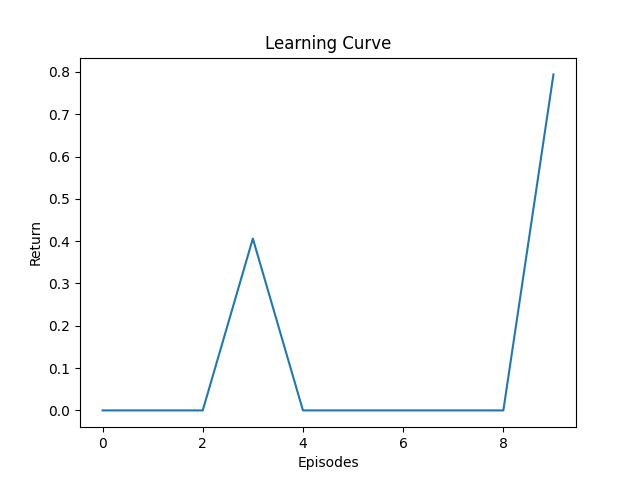
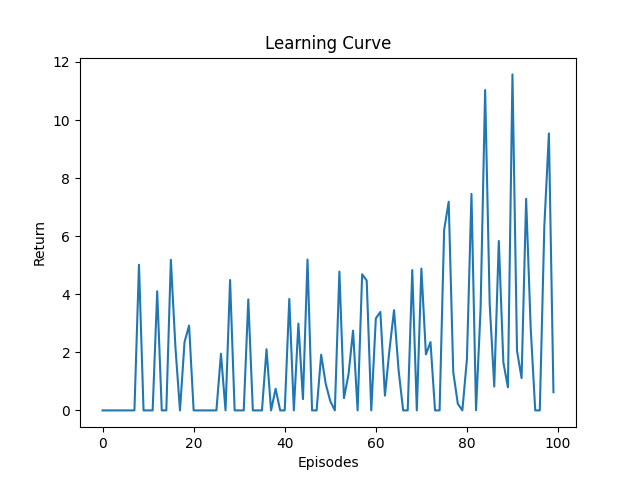
DQN

diff --git a/train_discreteaction_pendulum.py b/train_discreteaction_pendulum.py
@@ -7,6 +7,7 @@ import torch.nn as nn
 import torch.optim as optim
 from collections import deque
 
+
 #Neural Network for approximating Q-Function
 class NeuralNet(nn.Module):
     def __init__(self, input_size, hidden_size, output_size, learning_rate):
@@ -30,7 +31,7 @@ class NeuralNet(nn.Module):
 
 #Deep Q-Network Agent
 class DQN_agent:
-    def __init__(self, env, learning_rate, epsilon, num_episodes, gamma=0.95, replay_buffer = 2000):
+    def __init__(self, env, learning_rate, epsilon, num_episodes, target_replace_freq, batch_size, gamma=0.95, replay_buffer = 2000):
         self.env = env
         self.learning_rate = learning_rate
         self.evaluate_net = self.qnetwork()
@@ -44,8 +45,10 @@ class DQN_agent:
         self.loss = torch.nn.MSELoss()
         self.optimizer = optim.RMSprop(self.evaluate_net.parameters(), lr=learning_rate, alpha=0.95, eps=0.01, momentum=0.95)
         self.replay_buffer = replay_buffer
+        self.init_memory_size = 500
         self.learn_step_counter = 0
-        self.target_replace_freq = 10000
+        self.target_replace_freq = target_replace_freq
+        self.batch_size = batch_size
         self.memory = deque(maxlen = self.replay_buffer) #each element of the memory is [s,a,r,s',done]
         self.log = {
         't': [0],
@@ -63,18 +66,21 @@ class DQN_agent:
     def store_experience(self, s, a, r, s_new, done):
         self.memory.append((s,a,r,s_new,done))
 
-    def epsilon_greedy(self, s):
-        if np.random.rand() <= self.epsilon:
+    def epsilon_greedy(self, s, epsilon):
+        if np.random.rand() <= epsilon:
             return random.randrange(self.env.num_actions)
         q_values = self.evaluate_net.forward(s)
         greedy_action = torch.argmax(q_values).item()
         return greedy_action
     
-    def experience_replay(self, batch_size):
+    def experience_replay(self):
         if self.learn_step_counter % self.target_replace_freq == 0:
+            print("Updating Target Network")
             self.target_net.load_state_dict(self.evaluate_net.state_dict())
+        self.learn_step_counter += 1
 
-        experience_sample = random.sample(self.memory, batch_size)
+        experience_sample = random.sample(self.memory, self.batch_size)
+        # print(experience_sample[0])
         for s,a,r,s_new,done in experience_sample:
             eval_output = self.evaluate_net(s)[a]
             # target_output = r
@@ -88,6 +94,9 @@ class DQN_agent:
 
             self.optimizer.zero_grad()
             loss.backward()
+
+            for para in self.evaluate_net.parameters():
+                para.grad.data.clamp_(-1,1)
             self.optimizer.step()
 
         if self.epsilon > self.epsilon_min:
@@ -96,14 +105,14 @@ class DQN_agent:
         
         return self.evaluate_net, self.target_net
     
-    def load(self, name):
-        self.qnetwork().load_state_dict(name)
+    # def load(self, name):
+    #     self.qnetwork().load_state_dict(name)
 
-    def save(self, name):
-        self.qnetwork()._save_to_state_dict(name)
+    # def save(self, name):
+    #     self.qnetwork()._save_to_state_dict(name)
 
     def DQN(self):
-        batch_size = 32
+        # batch_size = 32
         # pi = lambda s: self.env.num_actions // 2
         for episode in range(self.num_episodes):
             s = self.env.reset()
@@ -112,27 +121,36 @@ class DQN_agent:
             iters = 0
             done = False
             while not done:
-                a = self.epsilon_greedy(s)
-                (s_new,r,done) = self.env.step(a)
-                # self.log['t'].append(self.log['t'][-1] + 1)
-                # self.log['s'].append(s_new)
-                # self.log['a'].append(a)
-                # self.log['r'].append(r)
-                iters += 1
-                G += r*self.gamma**(iters-1)
-                self.store_experience(s,a,r,s_new,done)
-                s = s_new
-                if len(self.memory) > batch_size:
-                    evaluate_net, target_net = self.experience_replay(batch_size)
+                if len(self.memory) < self.init_memory_size:
+                    a = random.randrange(self.env.num_actions)
+                    (s_new, r, done) = self.env.step(a)
+                    self.store_experience(s,a,r,s_new,done)
+                    s = s_new
+                    continue
+                else:
+                    a = self.epsilon_greedy(s, self.epsilon)
+                    (s_new,r,done) = self.env.step(a)
+                    iters += 1
+                    G += r*self.gamma**(iters-1)
+                    self.store_experience(s,a,r,s_new,done)
+                    s = s_new
+                    if len(self.memory) > self.batch_size:
+                        evaluate_net, target_net = self.experience_replay()
             pi = lambda s: torch.argmax(evaluate_net(s)).item()
             self.log['G'].append(G)
             self.log['episodes'].append(episode)
             print("Episode:", episode+1, "Return:", G, "Epsilon:", self.epsilon)
         return evaluate_net, pi, self.log
 
+
+# def wrap_pi(x):
+#     theta = ((x + np.pi) % (2 * np.pi)) - np.pi
+#     return theta
+
+
 def main():
     env = discreteaction_pendulum.Pendulum()
-    agent = DQN_agent(env=env, learning_rate=0.00025, epsilon=1.0, num_episodes=1000000, gamma=0.95, replay_buffer=1000000)
+    agent = DQN_agent(env=env, learning_rate=0.00025, epsilon=1.0, num_episodes=100, target_replace_freq=1000, batch_size=32, gamma=0.95, replay_buffer=100000)
     evaluate_net, pi, log = agent.DQN()
     # s = env.reset()
     # print(pi(s))
@@ -151,11 +169,15 @@ def main():
     print(opt_policy)
     log['s'] = np.array(log['s'])
     theta = log['s'][:,0]
+    print(theta)
     thetadot = log['s'][:,1]
     tau = [env._a_to_u(a) for a in log['a']]
     fig, ax = plt.subplots(3, 1, figsize=(10, 10))
     ax[0].plot(log['t'], theta, label='theta')
     ax[0].plot(log['t'], thetadot, label='thetadot')
+    ax[0].axhline(y=np.pi, color='r', linestyle='-', label='Theta = pi')
+    ax[0].axhline(y=-np.pi, color='r', linestyle='-', label='Theta = -pi')
+    ax[0].axhline(y = 0, color = 'r', linestyle='--', label='Theta = 0')
     ax[0].legend()
     ax[1].plot(log['t'][:-1], tau, label='tau')
     ax[1].legend()
@@ -172,7 +194,7 @@ def main():
     plt.title('Learning Curve')
     plt.savefig('figures/learning_curve.png')
 
-
+    # env.video(pi, filename='figures/test_discreteaction_pendulum.gif')
 if __name__ == "__main__":
     main()
 
